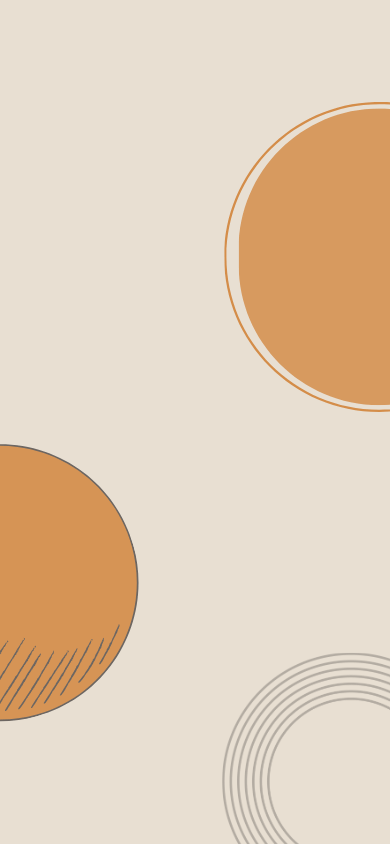
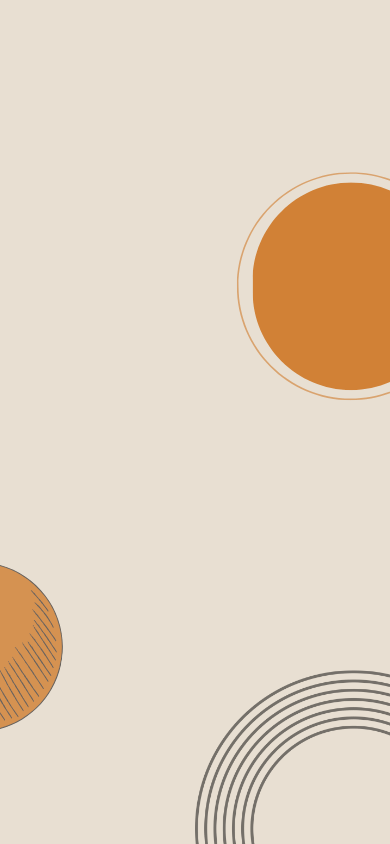
design-carts & orders

Changed region(s): [[0.5538, 0.1232, 1.0, 0.4929], [0.0, 0.5237, 0.3692, 0.8626], [0.4923, 0.7701, 1.0, 1.0]]

diff --git a/app/assets/stylesheets/orders/index.scss b/app/assets/stylesheets/orders/index.scss
@@ -47,10 +47,10 @@
 .order-card {
   background-color: rgba(255, 255, 255, 0.9);
   border-radius: 15px;
-  padding: 8px;
+  padding: 12px;
   display: flex;
   flex-direction: column;
-  box-shadow: 0 4px 6px rgba(0, 0, 0, 0.1);
+  box-shadow: 0 4px 6px rgba(0, 0, 0, 0.4);
   margin-bottom: 1px;
   position: relative;
   margin-bottom: 4px;
@@ -96,7 +96,7 @@
 }
 
 .order-product-name {
-  font-size: 16px;
+  font-size: 14px;
   font-weight: bold;
 }
 
@@ -112,7 +112,7 @@
   color: #fff;
   border: none;
   border-radius: 8px;
-  padding: 8px 10px;
+  padding: 8px 8px;
   cursor: pointer;
   font-size: 12px;
   width: 100%;
@@ -161,32 +161,33 @@
 
 
 .btn-order-processed{
-  border: 1px solid black;
+  border: 1px solid white;
   border-radius: 10px;
   color:white;
   margin-bottom: 12px;
 }
 
 .btn-orders {
-  background-color: #CB692F;
+  background-color: #F2B18B;
   color: #fff;
   border-radius: 10px;
-  padding: 12px 12px;
+  padding: 8px 10px;
   cursor: pointer;
   font-size: 14px;
   font-weight: 500px;
   border: none;
 }
 
-#btn-detail{
-  background-color: #545454;
+
+.order-view-details-button{
   color: #fff;
   border-radius: 10px;
-  padding: 10px 15px;
+  padding: 8px 12px;
   cursor: pointer;
   font-size: 14px;
   font-weight: 500px;
   border: none;
+  background-color: #CB692F;
 }
 
 .pouff{
@@ -195,3 +196,5 @@
   align-items: center;
   justify-content: space-between;
 }
+
+

diff --git a/app/assets/stylesheets/carts/index.scss b/app/assets/stylesheets/carts/index.scss
@@ -1,5 +1,5 @@
 .carts-page-container {
-  background: url('assets/background_light') no-repeat center center;
+  background: url('assets/carts') no-repeat center center;
   width: 390px;
   max-width: 100%;
   height: 844px;
@@ -52,7 +52,7 @@ border-radius: 15px;
 padding: 15px;
 display: flex;
 flex-direction: column;
-box-shadow: 0 4px 6px rgba(0, 0, 0, 0.1);
+box-shadow: 0 4px 6px rgba(0, 0, 0, 0.4);
 margin-bottom: 24px;
 position: relative;
 }
@@ -109,7 +109,7 @@ margin-top: 2px;
 .carts-accept-button,
 .carts-decline-button {
 background-color: #CB680C;
-border: 1px solid black;
+border: 1px solid white;
 color: #fff;
 border-radius: 8px;
 padding: 8px 10px;
